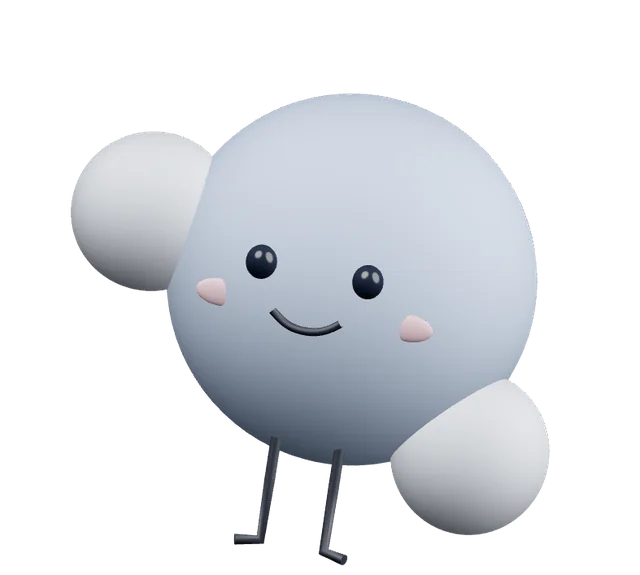
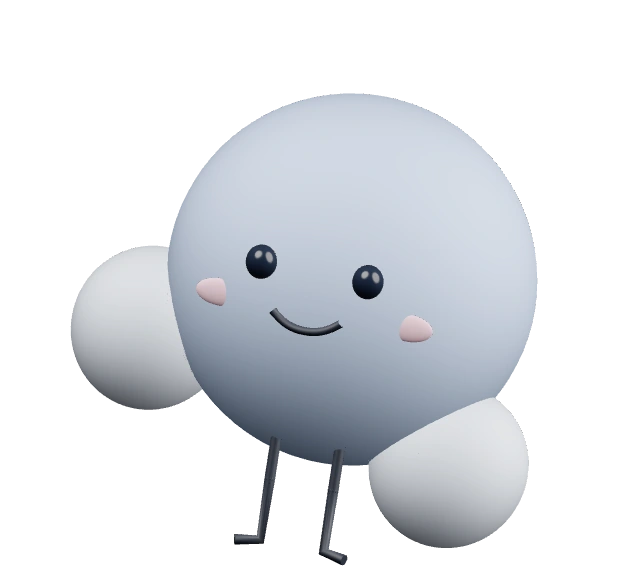
Moli con los hidrógenos a 104,5°, siempre juntos
Los dos hidrógenos (las manitos) de Moli ahora están a 104,5° entre sí,
el ángulo real de la molécula de agua, y se mueven siempre juntos: el
ángulo no cambia nunca.
- El modelo 3D los tenía a 90,9°: se corrigió en moli.glb.
- En el 3D de ¿Quién sos? ya no sube una mano sola ni las dos al
  saltar: para saludar, el par se mece.
- Las 6 fotos de Moli, la de respaldo de ¿Quién sos? y el ícono de la
  pestaña se volvieron a sacar, con el mismo encuadre.

diff --git a/src/components/rol/Moli3d.tsx b/src/components/rol/Moli3d.tsx
@@ -82,7 +82,9 @@ const PLACA_D = 453;
     ├─ Cuerpo (centro del oxígeno: respira y mira desde acá)
     │   ├─ oxígeno, ojos (parpadean), mejillas, sonrisa
     │   └─ Hombro izquierdo / derecho → hidrógeno (hacen de manos: giran
-    │      alrededor del centro del oxígeno)
+    │      alrededor del centro del oxígeno, siempre juntos: el ángulo
+    │      entre los dos es el de la molécula de agua, 104,5°, y no
+    │      cambia nunca; pedido de Sofia, 16/11)
     └─ Cadera izquierda / derecha → muslo
         └─ Rodilla → articulación y pantorrilla con el pie
 
@@ -188,11 +190,13 @@ type EstadoMoli = {
   rodillas: number;
   cierre: number;
   vaiven: number;
-  /** cuánto sube cada mano (hidrógeno) por el costado, y cuánto se adelanta la que sube */
-  manoIzq: number;
-  manoDer: number;
-  manoAdelante: number;
-  /** el ir y venir del saludo (se suma a la mano que saluda) */
+  /**
+    cuánto giran juntos los dos hidrógenos alrededor del oxígeno (positivo:
+    sube el de la derecha y baja el de la izquierda). Nunca se mueven por
+    separado: el ángulo entre los dos (104,5°) no cambia.
+  */
+  manos: number;
+  /** el ir y venir del saludo (se suma a manos) */
   ola: number;
   /** 1 = ojos abiertos; 0,1 = cerrados */
   parpado: number;
@@ -221,9 +225,7 @@ const estadoSentada = (x = 0, y = 0): EstadoMoli => ({
   respira: 1,
   ...PIERNAS_SENTADA,
   vaiven: 0,
-  manoIzq: 0,
-  manoDer: 0,
-  manoAdelante: 0,
+  manos: 0,
   ola: 0,
   parpado: 1,
   mirarX: 0,
@@ -261,12 +263,10 @@ function aplicarEstado(movil: Object3D, p: PartesMoli, m: EstadoMoli) {
     rodilla.rotation.set(rad(m.rodillas + lado * m.vaiven), 0, rad(-lado * m.cierre));
   }
 
-  // manos: suben por el costado (alrededor de Z) y se adelantan (alrededor de X); la que saluda suma la ola
-  const olaIzq = m.manoIzq > 40 ? m.ola : 0;
-  const olaDer = m.manoDer > 40 ? m.ola : 0;
-  const adelante = (mano: number) => rad((m.manoAdelante * Math.max(0, Math.min(mano, 60))) / 60);
-  p.hombroDer.rotation.set(adelante(m.manoDer), 0, rad(m.manoDer + olaDer));
-  p.hombroIzq.rotation.set(adelante(m.manoIzq), 0, rad(-(m.manoIzq + olaIzq)));
+  // manos: los dos hidrógenos giran juntos alrededor del oxígeno, como una sola pieza (el ángulo entre ellos no cambia)
+  const manos = rad(m.manos + m.ola);
+  p.hombroDer.rotation.set(0, 0, manos);
+  p.hombroIzq.rotation.set(0, 0, manos);
 
   p.ojoIzq.scale.y = m.parpado;
   p.ojoDer.scale.y = m.parpado;
@@ -278,8 +278,9 @@ function aplicarEstado(movil: Object3D, p: PartesMoli, m: EstadoMoli) {
   Tres momentos:
   - reposo: sentada en «Soy maestra» con las rodillas dobladas, respira,
     balancea las pantorrillas, parpadea y se ladea apenas;
-  - saludo («Soy maestra»): sigue sentada, mira, levanta un hidrógeno y
-    saluda;
+  - saludo («Soy maestra»): sigue sentada, mira y saluda meciendo los
+    dos hidrógenos juntos (nunca uno solo: el ángulo de la molécula no
+    cambia);
   - salto («Soy alumno»): se para estirando las piernas, toma envión
     doblando las rodillas, salta en arco con las piernas recogidas,
     aterriza amortiguando con las rodillas (y un rebote elástico) y saluda.
@@ -340,7 +341,7 @@ function saludo(m: EstadoMoli) {
   return gsap
     .timeline()
     .to(m, { giro: 0, mirarX: 0, mirarY: 2, inclina: 0, vaiven: 0, ...PIERNAS_SENTADA, duration: 0.35, ease: 'power2.out' })
-    .to(m, { manoDer: 84, manoAdelante: 26, duration: 0.42, ease: 'back.out(1.7)' }, 0.1)
+    .to(m, { manos: 12, duration: 0.42, ease: 'back.out(1.7)' }, 0.1)
     .to(m, { estira: 1.03, duration: 0.2, ease: 'sine.out', yoyo: true, repeat: 1 }, 0.12)
     .to(m, { ola: 14, duration: 0.16, ease: 'sine.out' }, 0.5)
     .to(m, { ola: -12, duration: 0.2, ease: 'sine.inOut', yoyo: true, repeat: 4 }, '>')
@@ -369,9 +370,9 @@ function salto(m: EstadoMoli, destino: Destino, alDespegar: () => void, alLlegar
     gsap
       .timeline()
       // 1 · se para: estira las piernas debajo del cuerpo y mira hacia donde va
-      .to(m, { alto: 0, ...PIERNAS_PARADA, vaiven: 0, giro: 18 * hacia, mirarX: 0, mirarY: 0, inclina: 0, manoIzq: 10, manoDer: 10, duration: 0.45, ease: 'power2.inOut' })
+      .to(m, { alto: 0, ...PIERNAS_PARADA, vaiven: 0, giro: 18 * hacia, mirarX: 0, mirarY: 0, inclina: 0, duration: 0.45, ease: 'power2.inOut' })
       // 2 · toma envión: dobla las rodillas (el cuerpo baja, los pies quedan) y se aplasta apenas
-      .to(m, { ...AGACHADA, alto: -bajaAlDoblar(AGACHADA.piernas, AGACHADA.rodillas), estira: ESTIRA.enviones, manoIzq: -6, manoDer: -6, duration: 0.22, ease: 'power2.out' })
+      .to(m, { ...AGACHADA, alto: -bajaAlDoblar(AGACHADA.piernas, AGACHADA.rodillas), estira: ESTIRA.enviones, duration: 0.22, ease: 'power2.out' })
       // 3 · despega y vuela en arco (el arco es un solo movimiento: x pareja, y en parábola)
       .addLabel('despegue')
       .call(alDespegar, [], 'despegue')
@@ -380,7 +381,6 @@ function salto(m: EstadoMoli, destino: Destino, alDespegar: () => void, alLlegar
       .to(m, { estira: 1, duration: 0.35, ease: 'sine.inOut' }, 'despegue+=0.12')
       // …y en el aire las recoge
       .to(m, { ...RECOGIDA, duration: 0.24, ease: 'power2.out' }, 'despegue+=0.1')
-      .to(m, { manoIzq: 48, manoDer: 48, duration: 0.25, ease: 'power2.out' }, 'despegue')
       .to(m, { inclina: -9 * hacia, duration: 0.25, ease: 'power2.out' }, 'despegue')
       .to(m, { inclina: 4 * hacia, duration: 0.35, ease: 'sine.inOut' }, 'despegue+=0.25')
       .to(
@@ -398,7 +398,7 @@ function salto(m: EstadoMoli, destino: Destino, alDespegar: () => void, alLlegar
         'despegue',
       )
       // antes de tocar, estira las piernas para recibir el piso
-      .to(m, { ...PIERNAS_PARADA, piernas: 8, rodillas: 14, manoIzq: 22, manoDer: 22, duration: 0.2, ease: 'power1.inOut' }, `despegue+=${vuelo - 0.2}`)
+      .to(m, { ...PIERNAS_PARADA, piernas: 8, rodillas: 14, duration: 0.2, ease: 'power1.inOut' }, `despegue+=${vuelo - 0.2}`)
       // 4 · aterriza: amortigua con las rodillas y vuelve con un rebote elástico
       .addLabel('aterrizaje', `despegue+=${vuelo}`)
       .call(alLlegar, [], 'aterrizaje')
@@ -408,9 +408,9 @@ function salto(m: EstadoMoli, destino: Destino, alDespegar: () => void, alLlegar
         'aterrizaje',
       )
       .to(m, { ...PIERNAS_PARADA, alto: 0, estira: 1, duration: 0.8, ease: 'elastic.out(1, 0.5)' }, 'aterrizaje+=0.1')
-      .to(m, { manoIzq: 0, manoDer: 0, giro: -6 * hacia, duration: 0.35, ease: 'power2.out' }, 'aterrizaje+=0.1')
-      // 5 · saluda (con la mano del lado de donde vino)
-      .to(m, { ...(hacia > 0 ? { manoIzq: 84 } : { manoDer: 84 }), manoAdelante: 26, duration: 0.4, ease: 'back.out(1.7)' }, 'aterrizaje+=0.35')
+      .to(m, { manos: 0, giro: -6 * hacia, duration: 0.35, ease: 'power2.out' }, 'aterrizaje+=0.1')
+      // 5 · saluda: los hidrógenos se mecen juntos, con el de adelante del lado de donde vino
+      .to(m, { manos: -12 * hacia, duration: 0.4, ease: 'back.out(1.7)' }, 'aterrizaje+=0.35')
       .to(m, { ola: 14, duration: 0.16, ease: 'sine.out' }, 'aterrizaje+=0.65')
       .to(m, { ola: -12, duration: 0.2, ease: 'sine.inOut', yoyo: true, repeat: 2 }, '>')
   );

diff --git a/src/components/rol/EscenaRol.tsx b/src/components/rol/EscenaRol.tsx
@@ -58,10 +58,11 @@ const CELULAS_ROL: Celula[] = [
 ];
 
 /*
-  Imagen de respaldo de Moli (render del mismo archivo, con Cycles): se ve
-  mientras carga el 3D y queda si el navegador no tiene WebGL. Es un
-  cuadrado de 6,4 unidades de Blender (454,4 de la escena); el asiento cae
-  en (50 %, 62,26 %). Su lugar lo da rol.css.
+  Imagen de respaldo de Moli: se ve mientras carga el 3D y queda si el
+  navegador no tiene WebGL. Desde el 16/11 es una foto del mismo 3D (con la
+  luz de Moli3d.tsx y las manitos a 104,5°), así el cambio al 3D no se nota.
+  Es un cuadrado de 6,4 unidades de Blender (454,4 de la escena); el asiento
+  cae en (50 %, 62,26 %). Su lugar lo da rol.css.
 */
 const RESPALDO = '/illustrations/rol/moli-sentada.webp';
 

diff --git a/docs/moli/preparar_moli_web.py b/docs/moli/preparar_moli_web.py
@@ -6,6 +6,13 @@ No cambia colores, materiales ni formas de lo que ya existe:
 - jerarquía: MOLI > Cuerpo (respira) > oxígeno, cara y hombros (de donde giran los hidrógenos);
   MOLI > Cadera > muslo y Rodilla > articulación y pantorrilla;
 - se borran los materiales que no usa nadie.
+
+16/11/2026 (pedido de Sofia): los hidrógenos tienen que estar a 104,5° entre sí, el ángulo real
+de la molécula de agua. En moli.blend y moli-web.blend estaban a 90,9°. Se corrigió directo en
+public/models/moli.glb, sin Blender: cada hidrógeno quedó a la misma distancia del centro del
+oxígeno (1,4037), en (±1,1099; −0,8535; 0,1) en coordenadas glTF, que en Blender es
+CENTRO + (±1,1099; −0,1; −0,8535). Si se vuelve a exportar desde Blender, hay que moverlos ahí
+antes (o repetir esa corrección en el .glb).
 """
 import bpy, bmesh, sys
 from mathutils import Vector

diff --git a/docs/moli/render_respaldo.py b/docs/moli/render_respaldo.py
@@ -1,4 +1,7 @@
-"""Render de respaldo de Moli sentada (para cuando no hay WebGL o mientras carga el 3D)."""
+"""Render de respaldo de Moli sentada (para cuando no hay WebGL o mientras carga el 3D).
+
+Ya no se usa: desde el 16/11 public/illustrations/rol/moli-sentada.webp es una foto del 3D de la
+web (three.js, misma luz que Moli3d.tsx), con los hidrógenos a 104,5°. Ver preparar_moli_web.py."""
 import bpy, sys, math
 from mathutils import Vector
 bpy.ops.wm.open_mainfile(filepath=sys.argv[-2])
